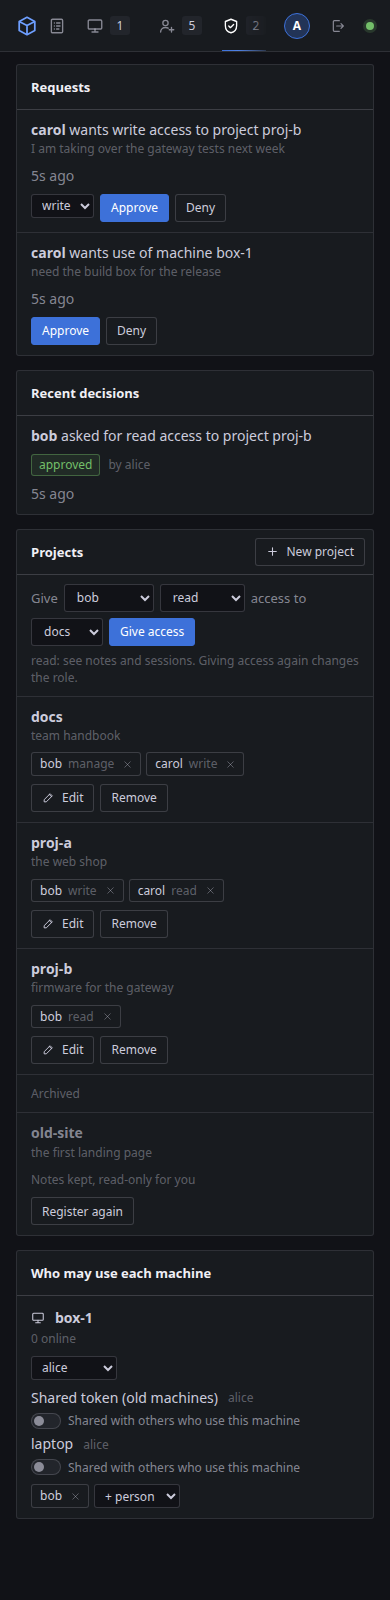
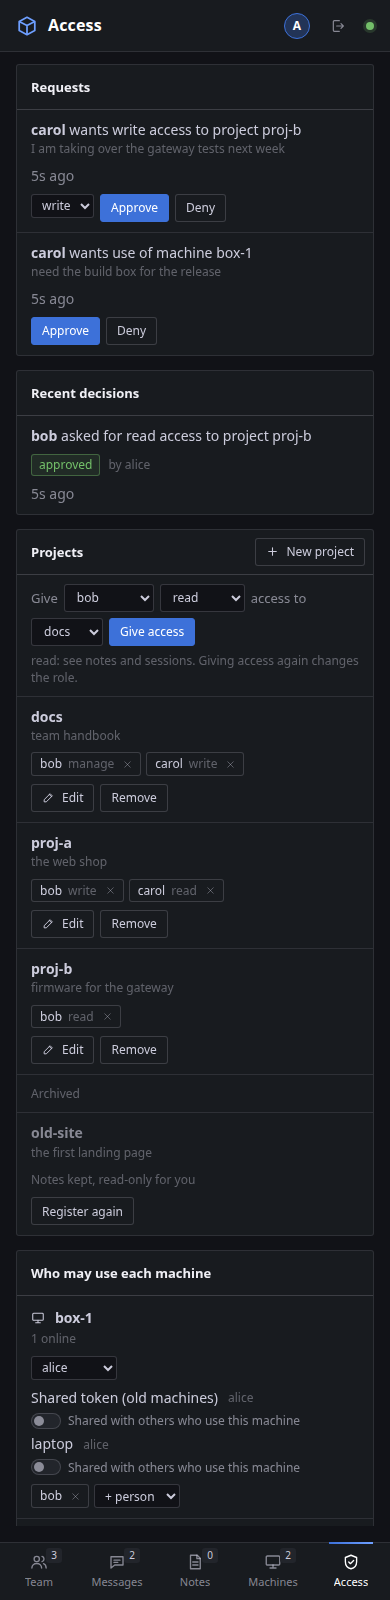
feat(page): phone tab bar at the bottom with names and a More menu
At 720 px and below the tabs sit in a bar at the bottom, each icon over its
name, and the header shows the open tab's name. Past five tabs, the fifth slot
is More: a menu of the rest by name with their counts (Rules, People, Access,
Log for the admin); it shows the open tab's icon and name when that tab is one
of them. A click outside, a second click or Esc closes it. The fade and the
scrolling tab bar are gone. Every phone screenshot retaken, plus more-phone.png.

Claude-Session: https://claude.ai/code/session_01WHiZ1E64m7csjvMWwiGkdu

diff --git a/src/kaptyorka/web/index.html b/src/kaptyorka/web/index.html
@@ -71,6 +71,20 @@ nav { display: flex; align-items: stretch; gap: 4px; }
   background: var(--raised); color: var(--text); font-size: 12px; text-align: center;
 }
 .sep { width: 1px; margin: 15px 6px; background: var(--line-strong); }
+.tab-more { position: relative; display: none; align-items: center; color: var(--dim); font-weight: 500; }
+.tab-more[aria-selected="true"] { color: #fff; }
+.tab-more[aria-selected="true"]::after {
+  content: ""; position: absolute; height: 2px; background: linear-gradient(90deg, var(--blue-deep), var(--blue));
+}
+#more-menu { display: none; position: fixed; right: 8px; bottom: 64px; z-index: 21; min-width: 200px; padding: 6px;
+  background: var(--raised); border: 1px solid var(--line-strong); border-radius: 6px; box-shadow: 0 8px 24px rgba(0, 0, 0, .5); }
+#more-menu button { display: flex; align-items: center; gap: 12px; width: 100%; padding: 11px 12px; border-radius: 4px;
+  color: var(--text); font-size: 14px; text-align: left; }
+#more-menu button:hover, #more-menu button[aria-current="page"] { background: rgba(255, 255, 255, .06); }
+#more-menu button[aria-current="page"] { color: #fff; }
+#more-menu button svg { color: var(--dim); }
+#more-menu .count { margin-left: auto; }
+#view-title { display: none; }
 .viewer { margin-left: auto; display: flex; align-items: center; gap: 7px; color: var(--dim); font-size: 13px; white-space: nowrap; }
 .viewer b { font-weight: 500; color: var(--text); }
 .viewer .role, .who .role { padding: 1px 6px; border-radius: 3px; font-size: 11px; color: var(--blue); border: 1px solid rgba(110, 159, 255, .35); }
@@ -415,8 +429,6 @@ tr.archived b { color: var(--dim); }
 @media (max-width: 720px) {
   header { gap: 10px; padding: 0 16px; }
   .brand span { display: none; }
-  .tab { padding: 0 10px; gap: 6px; }
-  .tab .label { display: none; }
   main { padding: 12px 16px 16px; }
   .bar { margin-bottom: 8px; }
   .chips { flex-direction: column; align-items: stretch; }
@@ -450,13 +462,20 @@ tr.archived b { color: var(--dim); }
   .compose select { flex: 1; max-width: none; min-width: 0; }
   .compose textarea { flex-basis: 100%; order: 5; }
   .compose .btn.primary { order: 6; margin-left: auto; }
-  nav { min-width: 0; overflow-x: auto; scrollbar-width: none; }
-  nav::-webkit-scrollbar { display: none; }
-  /* more tabs past the right edge: they fade out there */
-  nav.more-right { -webkit-mask-image: linear-gradient(90deg, #000 calc(100% - 36px), transparent);
-                   mask-image: linear-gradient(90deg, #000 calc(100% - 36px), transparent); }
-  .tab { padding: 0 8px; }
-  .sep { margin: 15px 2px; }
+  /* the tabs: a bar at the bottom, each icon over its name; past five, the rest under More */
+  #app { padding-bottom: 58px; }
+  nav { position: fixed; left: 0; right: 0; bottom: 0; z-index: 20; height: 58px; gap: 0;
+        padding-bottom: env(safe-area-inset-bottom); background: var(--panel); border-top: 1px solid var(--line); }
+  nav .tab, nav .tab-more { flex: 1 1 0; min-width: 0; flex-direction: column; justify-content: center; gap: 3px;
+                        padding: 0 2px; font-size: 11px; }
+  nav .tab .label, nav .tab-more .label { max-width: 100%; overflow: hidden; text-overflow: ellipsis; white-space: nowrap; }
+  nav .tab .count { position: absolute; top: 5px; left: calc(50% + 7px); min-width: 16px; padding: 0 4px;
+                    font-size: 10px; line-height: 15px; }
+  nav .tab[aria-selected="true"]::after, nav .tab-more[aria-selected="true"]::after { top: -1px; bottom: auto; left: 22%; right: 22%; }
+  nav .tab.overflow, nav .sep { display: none; }
+  nav .tab-more:not([hidden]) { display: flex; }
+  #view-title { display: block; font-size: 16px; color: #fff; }
+  #more-menu:not([hidden]) { display: block; }
   .viewer > svg, .viewer b, .viewer .role { display: none; }
   .viewer .initial { display: grid; }
   .signout { margin-left: 10px; }
@@ -551,6 +570,7 @@ tr.archived b { color: var(--dim); }
   <symbol id="i-plus" viewBox="0 0 24 24" fill="none" stroke="currentColor" stroke-width="2" stroke-linecap="round"><path d="M12 5v14M5 12h14"/></symbol>
   <symbol id="i-people" viewBox="0 0 24 24" fill="none" stroke="currentColor" stroke-width="1.8" stroke-linecap="round" stroke-linejoin="round"><circle cx="10" cy="8" r="3.5"/><path d="M3.5 20c0-3.6 2.9-6 6.5-6 1.4 0 2.6.3 3.6.9"/><path d="M18 14v6M15 17h6"/></symbol>
   <symbol id="i-shield" viewBox="0 0 24 24" fill="none" stroke="currentColor" stroke-width="1.8" stroke-linecap="round" stroke-linejoin="round"><path d="M12 3 4.5 6v5.5c0 4.6 3.1 8.3 7.5 9.5 4.4-1.2 7.5-4.9 7.5-9.5V6z"/><path d="m9 12 2.2 2.2L15.5 10"/></symbol>
+  <symbol id="i-more" viewBox="0 0 24 24" fill="currentColor"><circle cx="5" cy="12" r="1.9"/><circle cx="12" cy="12" r="1.9"/><circle cx="19" cy="12" r="1.9"/></symbol>
   <symbol id="i-list" viewBox="0 0 24 24" fill="none" stroke="currentColor" stroke-width="1.8" stroke-linecap="round" stroke-linejoin="round"><path d="M9 6h11M9 12h11M9 18h11"/><path d="M4.5 6h.01M4.5 12h.01M4.5 18h.01" stroke-width="2.6"/></symbol>
   <symbol id="i-door" viewBox="0 0 24 24" fill="none" stroke="currentColor" stroke-width="1.8" stroke-linecap="round" stroke-linejoin="round"><path d="M5 21V4.5A1.5 1.5 0 0 1 6.5 3h11A1.5 1.5 0 0 1 19 4.5V21"/><path d="M3 21h18M14.5 12.5v.5"/></symbol>
   <symbol id="i-copy" viewBox="0 0 24 24" fill="none" stroke="currentColor" stroke-width="1.8" stroke-linecap="round" stroke-linejoin="round"><rect x="8.5" y="8.5" width="12" height="12" rx="1.5"/><path d="M15.5 8.5V5A1.5 1.5 0 0 0 14 3.5H5A1.5 1.5 0 0 0 3.5 5v9A1.5 1.5 0 0 0 5 15.5h3.5"/></symbol>
@@ -570,7 +590,7 @@ tr.archived b { color: var(--dim); }
 <div id="app" hidden>
   <div id="warn-banner" role="alert" hidden></div>
   <header>
-    <div class="brand"><svg width="22" height="22"><use href="#i-cube"/></svg><span>kaptyorka</span></div>
+    <div class="brand"><svg width="22" height="22"><use href="#i-cube"/></svg><span>kaptyorka</span><b id="view-title"></b></div>
     <nav role="tablist">
       <button class="tab" role="tab" data-view="team" title="Team"><svg width="18" height="18"><use href="#i-team"/></svg><span class="label">Team</span><span class="count" id="n-team">0</span></button>
       <button class="tab" role="tab" data-view="messages" title="Messages"><svg width="18" height="18"><use href="#i-msg"/></svg><span class="label">Messages</span><span class="count" id="n-messages">0</span></button>
@@ -581,7 +601,9 @@ tr.archived b { color: var(--dim); }
       <button class="tab admin-only" role="tab" data-view="people" title="People" hidden><svg width="18" height="18"><use href="#i-people"/></svg><span class="label">People</span><span class="count" id="n-people">0</span></button>
       <button class="tab admin-only" role="tab" data-view="access" title="Access" hidden><svg width="18" height="18"><use href="#i-shield"/></svg><span class="label">Access</span><span class="count" id="n-access" hidden>0</span></button>
       <button class="tab admin-only" role="tab" data-view="audit" title="Log" hidden><svg width="18" height="18"><use href="#i-list"/></svg><span class="label">Log</span></button>
+      <button class="tab-more" id="more" type="button" aria-haspopup="menu" aria-expanded="false" aria-controls="more-menu" hidden><svg width="18" height="18"><use id="more-icon" href="#i-more"/></svg><span class="label" id="more-label">More</span></button>
     </nav>
+    <div id="more-menu" role="menu" aria-label="More tabs" hidden></div>
     <div class="viewer" id="viewer" title="Signed in"><svg width="15" height="15"><use href="#i-person"/></svg><b id="viewer-name"></b><span class="role" id="viewer-role" hidden>admin</span><span class="initial" id="viewer-initial"></span></div>
     <button class="signout" id="signout" type="button" title="Sign out"><svg width="16" height="16"><use href="#i-signout"/></svg><span class="label">Sign out</span></button>
     <div class="live" id="live" title="Connecting"><i></i></div>
@@ -961,9 +983,9 @@ tr.archived b { color: var(--dim); }
       b.setAttribute("aria-selected", b.dataset.view === v ? "true" : "false");
     });
     VIEWS.concat(ADMIN_VIEWS).forEach(function (id) { $(id).hidden = id !== v; });
-    var cur = document.querySelector('.tab[data-view="' + v + '"]');
-    if (cur && cur.scrollIntoView) cur.scrollIntoView({ block: "nearest", inline: "nearest" });
-    navFade();
+    $("view-title").textContent = document.querySelector('.tab[data-view="' + v + '"]').title;
+    moreOpen(false);
+    navMore();
     history.replaceState(null, "", location.pathname + (v === "team" ? "" : "#view=" + v));
     if (v === "messages") { markClipped(); toBottom(); }
     if (v === "machines") loadFleet(true);
@@ -971,20 +993,39 @@ tr.archived b { color: var(--dim); }
     if (v === "people") loadInvites();
     if (v === "team") loadAccess();
   }
-  /* the tab bar fades at the right edge while more tabs sit past it */
-  var navWidth = 0;
-  function navFade() {
-    var n = document.querySelector("nav");
-    n.classList.toggle("more-right", n.scrollLeft + n.clientWidth < n.scrollWidth - 2);
+  /* on a phone the tab bar holds five: past that, the fifth slot is More, a menu of the rest by
+     name with their counts. When the open tab is one of those, More shows its icon and name. */
+  var PHONE_BAR = ["team", "messages", "notes", "machines"];
+  function overflowTabs() {
+    var tabs = [].filter.call(document.querySelectorAll("nav .tab"), function (b) { return !b.hidden; });
+    return tabs.length > 5 ? tabs.filter(function (b) { return PHONE_BAR.indexOf(b.dataset.view) < 0; }) : [];
   }
-  /* a count that appears widens the tabs: keep the open tab in view when the bar's width changes */
-  function navKeep() {
-    var n = document.querySelector("nav");
-    if (n.scrollWidth === navWidth) return;
-    navWidth = n.scrollWidth;
-    var cur = n.querySelector('.tab[aria-selected="true"]');
-    if (cur && cur.scrollIntoView) cur.scrollIntoView({ block: "nearest", inline: "nearest" });
-    navFade();
+  function navMore() {
+    var over = overflowTabs();
+    document.querySelectorAll("nav .tab").forEach(function (b) { b.classList.toggle("overflow", over.indexOf(b) >= 0); });
+    var cur = over.filter(function (b) { return b.dataset.view === view; })[0];
+    $("more").hidden = !over.length;
+    $("more").setAttribute("aria-selected", cur ? "true" : "false");
+    $("more-label").textContent = cur ? cur.title : "More";
+    $("more-icon").setAttribute("href", cur ? cur.querySelector("use").getAttribute("href") : "#i-more");
+    if (!$("more-menu").hidden) fillMore(over);
+  }
+  function fillMore(over) {
+    var menu = $("more-menu");
+    menu.textContent = "";
+    over.forEach(function (b) {
+      var n = b.querySelector(".count");
+      var item = el("button", { type: "button", role: "menuitem", "aria-current": b.dataset.view === view ? "page" : null }, [
+        icon(b.querySelector("use").getAttribute("href").slice(1), 18), el("span", { text: b.title }),
+        n && !n.hidden ? el("span", { "class": "count", text: n.textContent }) : null]);
+      item.addEventListener("click", function () { show(b.dataset.view); });
+      menu.appendChild(item);
+    });
+  }
+  function moreOpen(open) {
+    if (open) fillMore(overflowTabs());
+    $("more-menu").hidden = !open;
+    $("more").setAttribute("aria-expanded", open ? "true" : "false");
   }
 
   /* where a name lives: from the online list, else from the name itself */
@@ -2116,7 +2157,7 @@ tr.archived b { color: var(--dim); }
       if (!busy("audit") && changed("audit", [feed.log, feed.settings, feed.people, logPerson, logRows])) renderLog();
       if (logPerson && changed("log-src", feed.log)) loadLog();
     }
-    navKeep();
+    navMore();
     tick();
   }
 
@@ -2224,8 +2265,11 @@ tr.archived b { color: var(--dim); }
       .catch(function (x) { $("ask-err").hidden = false; $("ask-err").textContent = x.message; });
   });
   $("chips-toggle").addEventListener("click", function () { chipsOpen = !chipsOpen; renderChips(); });
-  document.querySelector("nav").addEventListener("scroll", navFade, { passive: true });
-  window.addEventListener("resize", function () { navWidth = 0; navKeep(); });
+  $("more").addEventListener("click", function () { moreOpen($("more-menu").hidden); });
+  document.addEventListener("click", function (e) {  /* a click outside closes the menu */
+    if (!$("more-menu").hidden && !$("more").contains(e.target) && !$("more-menu").contains(e.target)) moreOpen(false);
+  });
+  document.addEventListener("keydown", function (e) { if (e.key === "Escape") moreOpen(false); });
   function boot() {
     get("/api/me").then(start).catch(function () {
       if ($("app").hidden) return;  /* locked: the token was refused */

diff --git a/tests/test_page_slow.py b/tests/test_page_slow.py
@@ -128,3 +128,34 @@ def test_member_asks_for_access(tmp_path):
     finally:
         stop()
         store.close()
+
+
+def test_phone_more_menu(tmp_path):
+    """At 390 px the admin sees five named slots; More lists the rest by name and opens them."""
+    store = Store(tmp_path / "hub.db")
+    ManagerStore(store).set_enabled(False, "test")
+    stop = start_hub(store)
+    _, token = person(store, "alice", "admin")
+    try:
+        with chrome(390, 844) as page:
+            page.go(f"http://127.0.0.1:{stop.port}/#t={token}")
+            page.wait('!document.getElementById("more").hidden')
+            shown = page.js('[...document.querySelectorAll("nav .tab, nav .tab-more")]'
+                            '.filter(b => b.offsetWidth > 0).map(b => b.textContent.replace(/\\d+/g, ""))')
+            assert shown == ["Team", "Messages", "Notes", "Machines", "More"]
+            assert page.js('document.getElementById("view-title").textContent') == "Team"
+            page.js('document.getElementById("more").click()')
+            items = page.wait('[...document.querySelectorAll("#more-menu button")].map(b => b.textContent)')
+            assert [i.rstrip("0123456789") for i in items] == ["Rules", "People", "Access", "Log"]
+            page.js('document.body.click()')  # a click outside closes it
+            assert page.js('document.getElementById("more-menu").hidden')
+            page.js('document.getElementById("more").click()')
+            page.js('[...document.querySelectorAll("#more-menu button")].find(b => b.textContent.startsWith("People")).click()')
+            page.wait('!document.getElementById("people").hidden')
+            assert page.js('document.getElementById("more-menu").hidden')
+            assert page.js('document.getElementById("more-label").textContent') == "People"
+            assert page.js('document.getElementById("view-title").textContent') == "People"
+            assert page.js("document.documentElement.scrollWidth") == 390
+    finally:
+        stop()
+        store.close()

diff --git a/tests/test_page.py b/tests/test_page.py
@@ -93,7 +93,14 @@ def test_phone_layouts(hub):
     html = page(hub)
     phone = html[html.index("@media (max-width: 720px)"):html.index("@media (prefers-reduced-motion")]
     assert "min-width: 560px" not in html  # admin tables are cards on a phone, not cut off
-    assert "nav.more-right" in phone and "mask-image" in phone and "function navFade()" in html
+    # tabs: a bottom bar with names under the icons; past five, More opens a menu of the rest
+    assert "nav { position: fixed; left: 0; right: 0; bottom: 0;" in phone and ".tab .label { display: none; }" not in phone
+    assert "nav .tab.overflow, nav .sep { display: none; }" in phone and "#view-title { display: block;" in phone
+    assert 'var PHONE_BAR = ["team", "messages", "notes", "machines"];' in html
+    assert 'id="more" type="button" aria-haspopup="menu"' in html and 'id="more-menu" role="menu"' in html
+    assert '$("more-label").textContent = cur ? cur.title : "More";' in html
+    assert 'n && !n.hidden ? el("span", { "class": "count", text: n.textContent }) : null' in html
+    assert "/* a click outside closes the menu */" in html and "mask-image" not in phone
     assert "#people td.c-act, #access td.c-act { display: flex; flex-wrap: wrap;" in phone
     assert "#audit td.l-what" in phone
     assert ".stack td.nil { display: none; }" in phone and '"sw-label", text: "Auto-update"' in html

diff --git a/CHANGELOG.md b/CHANGELOG.md
@@ -16,7 +16,7 @@
 - Change a role: `kaptyorka people role <person> member|manager`, or the role list on the People tab. Edit a project's description: `kaptyorka project edit <name> --description <text>`, or **Edit** on the Access tab.
 - Invites: they show an expiry ("works for 7 days"). `kaptyorka invites` lists the open ones and `kaptyorka invites --cancel <code>` stops one; the People tab has **Open invites** with **Cancel**. **Add person** shows the new link at once.
 - Members see **My access** on the Team tab, and can **Ask for** read or write access to a project or use of a machine. New route `POST /api/requests` and `GET /api/me/access`. The admin approves with a chosen role (read or write) or denies with a reason, which is sent to the person's page and sessions. **Recent decisions** lists the last ten.
-- The page: inline questions instead of pop-ups, empty states with a next step, the grant form as a sentence with a hint per role, phone layouts for every tab, and plain sentences in the Log ("alice made an invite link for bob"). The hint for `manage` now says it is the same as `write` for now; only the admin gives access.
+- The page: inline questions instead of pop-ups, empty states with a next step, the grant form as a sentence with a hint per role, phone layouts for every tab (on a phone the tabs sit in a bar at the bottom with their names; past five, **More** lists the rest), and plain sentences in the Log ("alice made an invite link for bob"). The hint for `manage` now says it is the same as `write` for now; only the admin gives access.
 - Command line: every command has a one-line help in plain words, and `invites`, `rules` and `fleet` now show in `kaptyorka --help`. A missing argument prints the usage and one sentence. When something goes wrong, each command prints one plain sentence and exits with 1: not joined, "cannot reach the hub at <url>", the hub's own reason for a refusal, or a short line for a 401, 403, 404, 409 or 5xx with no reason. `who` prints its errors to stderr like the others. `join` words a spent, cancelled or expired invite plainly.
 - New columns, added by themselves when the hub starts: `people.removed_at` and `projects.archived_at`. Nothing to run on upgrade.
 
